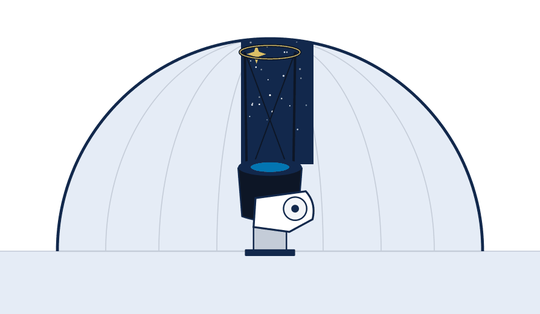
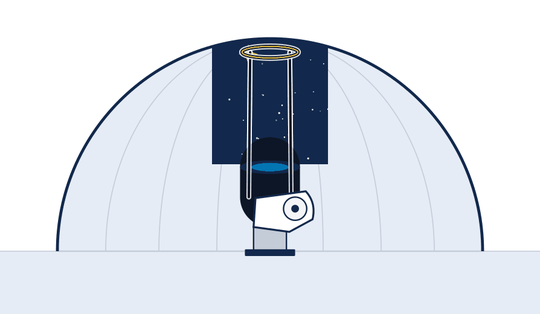
단계별 오지선다 개념 확인 퀴즈 20문제, 새 망원경 GIF

Changed region(s): [[0.3852, 0.1146, 0.6222, 0.7166]]

diff --git a/js/ui/concepts.js b/js/ui/concepts.js
@@ -1,0 +1,186 @@
+// 개념 확인 퀴즈: 단계마다 맨 아래에 오지선다 문제. 수업 자료(광도 곡선, 변광성의 종류, 주기-광도 관계, 거리지수)를 바탕으로 만들었다.
+// 고르는 순간 바로 채점하고 해설을 보여 준다. 첫 답은 S.quiz['단계-번호']에 남아 "내 기록"에 맞힌 개수로 정리된다.
+(function (g) {
+  const C = g.CEPH;
+  const h = C.h;
+  const NUM = ['①', '②', '③', '④', '⑤'];
+
+  // a: 정답 번호(0부터). 화면에서는 보기 순서를 섞어 보여 준다 (fixed: 숫자처럼 순서가 있는 보기는 그대로)
+  C.CONCEPTS = {
+    1: [
+      {
+        q: '변광성의 밝기가 변하는 원인 가운데 "외적 요인"에 해당하는 것은?',
+        o: ['별 내부가 팽창과 수축을 되풀이한다', '쌍성계의 두 별이 공전하며 서로를 가린다', '방출하는 에너지가 폭발적으로 늘어난다', '별의 표면 온도가 주기적으로 바뀐다', '별의 크기가 주기적으로 바뀐다'],
+        a: 1,
+        e: '외적 요인은 별의 광도는 그대로인데 식 현상 등으로 겉보기 밝기만 변하는 경우예요(예: 식 변광성). 나머지는 별 스스로 내는 에너지가 변하는 내적 요인이에요.'
+      },
+      {
+        q: '같은 은하 속의 세페이드 변광성들을 함께 비교하는 이유로 가장 알맞은 것은?',
+        o: ['모두 주기가 같기 때문에', '모두 질량이 같기 때문에', '지구로부터의 거리가 거의 같아서, 겉보기등급의 차이가 곧 절대등급의 차이가 되기 때문에', '같은 은하 안의 별은 성간소광을 받지 않기 때문에', '같은 은하 안의 별은 모두 밝기가 같기 때문에'],
+        a: 2,
+        e: '같은 은하의 세페이드는 우리에게서 거의 같은 거리에 있어요. 그래서 겉보기 밝기의 차이가 곧 진짜 밝기(절대등급)의 차이가 되고, 이 덕분에 리비트가 주기-광도 관계를 찾을 수 있었어요.'
+      },
+      {
+        q: '폭발 변광성(예: 초신성)의 광도 곡선에 대한 설명으로 옳은 것은?',
+        o: ['주기성이 있고, 좌우 대칭 모양이다', '주기성이 있고, 비대칭 톱니 모양이다', '주기성이 없고, 밝기가 급격히 증가한 뒤 서서히 감소한다', '한 주기에 두 번 어두워진다', '밝기가 거의 변하지 않는다'],
+        a: 2,
+        e: '초신성은 별의 마지막 단계에서 일어나는 폭발이라 되풀이되지 않아요. 급격히 최대 광도에 이른 뒤 수개월 동안 서서히 어두워져요.'
+      }
+    ],
+    2: [
+      {
+        q: '광도 곡선에 대한 설명으로 옳은 것은?',
+        o: ['별빛의 세기를 파장에 따라 나타낸 그래프', '천체의 등급 변화를 시간에 따라 나타낸 그래프', '별의 주기와 광도의 관계를 나타낸 그래프', '별의 질량과 광도의 관계를 나타낸 그래프', '별의 거리와 겉보기등급의 관계를 나타낸 그래프'],
+        a: 1,
+        e: '광도 곡선은 천체의 밝기(등급)가 시간에 따라 어떻게 변하는지 그린 그래프예요. 주기성이 있으면 가로축에 시간 대신 위상을 쓰기도 해요.'
+      },
+      {
+        q: '변광성의 광도 곡선만으로 직접 알아내기 어려운 것은?',
+        o: ['변광 주기', '광도 변화의 폭(진폭)', '가장 밝을 때의 밝기', '평균 밝기', '별의 질량'],
+        a: 4,
+        e: '광도 곡선에서는 주기, 진폭, 최대 밝기, 평균 밝기 같은 특성을 읽을 수 있어요. 질량은 쌍성의 공전 운동이나 질량-광도 관계 같은 다른 방법이 필요해요.'
+      },
+      {
+        q: '세페이드를 하룻밤이 아니라 약 석 달 동안 여러 번 찍는 가장 큰 이유는?',
+        o: ['하룻밤 사이에 한 주기가 끝나기 때문에', '주기가 며칠~수십 일이라 밝기가 여러 번 오르내리는 모습을 담아야 하기 때문에', '별이 멀어서 빛이 도착하는 데 석 달이 걸리기 때문에', '망원경을 식히는 데 시간이 걸리기 때문에', '계절마다 다른 별을 찍어야 하기 때문에'],
+        a: 1,
+        e: '세페이드의 주기는 며칠에서 수십 일이에요. 주기를 정확히 재려면 밝기가 여러 번 오르내리는 동안 꾸준히 찍어야 해요.'
+      }
+    ],
+    3: [
+      {
+        q: '차등측광에서 목표 별과 같은 사진 속의 비교성을 쓰는 까닭은?',
+        o: ['비교성이 목표 별보다 항상 가깝기 때문에', '같은 사진 속 별들은 구름·대기의 영향을 똑같이 받아서, 둘의 차이를 보면 날씨 영향이 사라지기 때문에', '비교성은 성간소광을 받지 않기 때문에', '비교성의 주기를 알기 위해', '사진의 크기를 줄이기 위해'],
+        a: 1,
+        e: '엷은 구름이 끼면 사진 속 모든 별이 같은 비율로 어두워져요. 목표 별과 비교성의 밝기 차이를 쓰면 이 날씨 영향이 지워져요.'
+      },
+      {
+        q: '다음 중 비교성으로 가장 알맞은 별은?',
+        o: ['너무 밝아 화소가 가득 찬(포화된) 별', '사진 가장자리에 걸친 별', '이웃 별과 겹쳐 보이는 별', '밝기가 변하지 않고, 적당히 밝고, 다른 별과 떨어져 있는 별', '스스로 밝기가 변하는 별'],
+        a: 3,
+        e: '비교성은 밝기가 변하지 않아야 하고, 포화·가장자리·이웃 별 섞임 없이 깨끗하게 잴 수 있어야 해요.'
+      },
+      {
+        q: '구경측광에서 별 바깥의 "배경 고리"를 쓰는 이유는?',
+        o: ['별의 색을 재기 위해', '별 주변 하늘(배경빛)의 밝기를 재서, 별빛에서 빼 주기 위해', '별의 주기를 재기 위해', '별을 더 크게 보이게 하기 위해', '이웃 별을 지우기 위해'],
+        a: 1,
+        e: '원 안의 빛에는 별빛과 배경빛이 섞여 있어요. 배경 고리로 한 화소당 배경빛을 재서, 그만큼을 빼야 별빛만 남아요.'
+      }
+    ],
+    4: [
+      {
+        q: '세페이드 변광성(맥동 변광성)의 광도 곡선 모양으로 옳은 것은?',
+        o: ['밝기가 천천히 증가하고 급하게 감소하는 모양', '밝기가 급하게 증가하고 천천히 감소하는 비대칭 톱니 모양', '좌우가 대칭이고 한 주기에 두 번 어두워지는 모양', '한 번 급증한 뒤 다시 밝아지지 않는 모양', '밝기가 변하지 않는 평평한 모양'],
+        a: 1,
+        e: '맥동 변광성은 밝기가 급하게 올라갔다가 천천히 내려오는 비대칭 톱니 모양이에요. 4단계에서 세페이드와 식쌍성을 가르는 단서가 바로 이 모양이에요.'
+      },
+      {
+        q: '식 변광성의 광도 곡선에서 가장 깊게 어두워지는 때(주극소)는 언제일까?',
+        o: ['두 별이 가장 멀리 떨어져 있을 때', '표면 온도가 높은 별이 가려질 때', '표면 온도가 낮은 별이 가려질 때', '두 별이 모두 팽창할 때', '두 별이 나란히 보일 때'],
+        a: 1,
+        e: '식 변광성은 한 주기에 두 번 어두워져요. 표면 온도가 높은(단위 면적당 더 밝은) 별이 가려질 때 크게 어두워지고(주극소), 온도가 낮은 별이 가려질 때 조금 어두워져요(부극소).'
+      },
+      {
+        q: '맥동 변광성이 가장 밝을 때와 크기가 가장 클 때가 일치하지 않는 이유는?',
+        o: ['별이 커질수록 거리가 멀어지기 때문에', '커져도 표면 온도가 크게 낮아지면 광도가 줄기 때문에', '별이 커지면 성간소광이 커지기 때문에', '별이 커지면 질량이 줄기 때문에', '관측 시각이 정확하지 않기 때문에'],
+        a: 1,
+        e: '광도는 크기와 표면 온도에 함께 달려 있어요. 별이 커지는 동안 표면 온도가 크게 낮아지면, 크기가 최대여도 광도는 오히려 줄어들 수 있어요.'
+      },
+      {
+        q: '주기 P = 10일인 별을 t = 25일에 찍었어요. 이 사진의 위상은? (위상 = t ÷ P의 소수 부분)',
+        o: ['0.25', '0.4', '0.5', '2.5', '2.0'], fixed: true,
+        a: 2,
+        e: '25 ÷ 10 = 2.5 이고, 정수 부분 2를 빼면 위상은 0.5예요. 위상 중첩은 모든 사진을 이렇게 한 주기 안의 위치로 옮겨 겹쳐 놓은 거예요.'
+      }
+    ],
+    5: [
+      {
+        q: '세페이드의 주기-광도 관계를 처음 발견한 사람과, 그때 조사한 대상은?',
+        o: ['허블 – 안드로메다 은하', '리비트 – 소마젤란 은하', '섀플리 – 구상 성단', '케플러 – 태양계 행성', '갈릴레이 – 목성의 위성'],
+        a: 1,
+        e: '1912년 헨리에타 리비트가 소마젤란 은하의 세페이드를 조사해 "변광 주기가 길수록 광도가 크다"는 관계를 발견했어요.'
+      },
+      {
+        q: '같은 은하에 있는 세페이드 A(주기 5일)와 B(주기 30일)에 대한 설명으로 옳은 것은?',
+        o: ['A가 B보다 광도가 크다', 'B가 A보다 광도가 크다', '두 별의 광도는 같다', '주기로는 광도를 알 수 없다', 'B가 더 가까이 있다'],
+        a: 1,
+        e: '주기가 길수록 광도가 커요. 같은 은하라 거리는 거의 같으니, B가 하늘에서도 더 밝게 보여요.'
+      },
+      {
+        q: '주기-광도 관계 M = −2.43 × (log P − 1) − 4.05 에서, 주기가 10일인 세페이드의 절대등급 M은?',
+        o: ['−6.48', '−4.05', '−1.62', '0', '+4.05'], fixed: true,
+        a: 1,
+        e: 'log 10 = 1 이라 괄호 안이 0이 돼요. 그래서 M = −4.05 예요.'
+      }
+    ],
+    6: [
+      {
+        q: '세페이드 변광성으로 외부 은하까지의 거리를 구하는 순서로 옳은 것은?',
+        o: ['광도 곡선 → 변광 주기 → 주기-광도 관계 → 절대등급 → 거리지수 → 거리', '절대등급 → 광도 곡선 → 변광 주기 → 거리지수 → 주기-광도 관계 → 거리', '거리지수 → 절대등급 → 광도 곡선 → 변광 주기 → 거리', '변광 주기 → 거리지수 → 광도 곡선 → 절대등급 → 거리', '광도 곡선 → 거리지수 → 변광 주기 → 절대등급 → 거리'],
+        a: 0,
+        e: '광도 곡선에서 주기를 읽고, 주기-광도 관계로 절대등급을 구한 뒤, 겉보기등급과의 차(거리지수)로 거리를 계산해요. 이 사이트의 1~6단계 순서와 같아요.'
+      },
+      {
+        q: '성간소광을 보정하지 않고 거리를 구하면 어떻게 될까?',
+        o: ['실제보다 가깝게 계산된다', '실제보다 멀게 계산된다', '실제 거리와 같다', '거리를 구할 수 없다', '주기가 바뀐다'],
+        a: 1,
+        e: '성간 티끌이 별빛을 흡수·산란해 별이 실제보다 어둡게(m이 크게) 보여요. 그대로 계산하면 m − M이 커져서 거리가 멀게 나와요.'
+      },
+      {
+        q: '어떤 세페이드의 거리지수 m − M 이 10 이에요. 이 별까지의 거리는? (m − M = 5 log d − 5, d는 pc)',
+        o: ['10 pc', '100 pc', '1,000 pc', '10,000 pc', '100,000 pc'], fixed: true,
+        a: 2,
+        e: '10 = 5 log d − 5 → 5 log d = 15 → log d = 3 → d = 10³ = 1,000 pc 예요.'
+      },
+      {
+        q: '두 세페이드의 절대등급이 같은데, 겉보기등급이 5등급 차이 나요. 어두운 별은 밝은 별보다 몇 배 멀리 있을까?',
+        o: ['2배', '5배', '10배', '25배', '100배'], fixed: true,
+        a: 2,
+        e: '거리지수가 5 커질 때마다 log d가 1 커져요. 즉 거리가 10배 멀어요. (밝기로는 100배 어둡게 보여요)'
+      }
+    ]
+  };
+
+  C.conceptQuiz = function (step) {
+    const list = C.CONCEPTS[step];
+    if (!list) return null;
+    const S = C.S;
+    const ans = () => (S.quiz = S.quiz || {});
+    const box = h('section', { class: 'concept-quiz' });
+    function draw() {
+      box.innerHTML = '';
+      const A = ans();
+      const done = list.filter((_, i) => A[step + '-' + i] !== undefined);
+      const right = done.filter((q) => A[step + '-' + list.indexOf(q)] === q.a).length;
+      box.append(h('div', { class: 'cq-head' },
+        h('h3', null, '개념 확인 퀴즈'),
+        h('span', { class: 'tag' + (done.length === list.length ? ' ok' : '') }, done.length === list.length ? right + ' / ' + list.length + ' 맞힘' : done.length + ' / ' + list.length + ' 풀었어요')));
+      list.forEach((item, i) => {
+        const key = step + '-' + i, pick = A[key];
+        const answered = pick !== undefined;
+        const ord = item.fixed ? [0, 1, 2, 3, 4] : C.rng(C.hashStr('cq#' + key)).shuffle([0, 1, 2, 3, 4]);
+        box.append(h('div', { class: 'cq-item' },
+          h('p', { class: 'cq-q' }, h('b', null, (i + 1) + '. '), item.q),
+          h('div', { class: 'cq-opts' }, ord.map((k, pos) => h('button', {
+            class: 'cq-opt' + (answered ? (k === item.a ? ' right' : k === pick ? ' wrong' : ' dim') : ''),
+            disabled: answered,
+            onclick: () => { A[key] = k; C.save(); draw(); }
+          }, h('span', { class: 'n' }, NUM[pos]), h('span', null, item.o[k])))),
+          answered ? h('div', { class: 'callout ' + (pick === item.a ? 'good' : 'warn') },
+            h('b', null, pick === item.a ? '맞아요! ' : '아쉬워요. 정답은 ' + NUM[ord.indexOf(item.a)] + '. '), item.e) : null));
+      });
+      if (done.length) box.append(h('div', { class: 'row', style: { justifyContent: 'flex-end' } },
+        h('button', { class: 'sm', onclick: () => { list.forEach((_, i) => delete A[step + '-' + i]); C.save(); draw(); } }, '다시 풀어 보기')));
+    }
+    draw();
+    return box;
+  };
+
+  // 내 기록용: 모든 단계 퀴즈의 맞힌 수
+  C.conceptScore = function () {
+    const A = C.S.quiz || {};
+    let n = 0, right = 0, done = 0;
+    Object.keys(C.CONCEPTS).forEach((s) => C.CONCEPTS[s].forEach((q, i) => { n++; const p = A[s + '-' + i]; if (p !== undefined) { done++; if (p === q.a) right++; } }));
+    return { n, right, done };
+  };
+})(typeof window !== 'undefined' ? window : globalThis);

diff --git a/js/ui/step6.js b/js/ui/step6.js
@@ -188,7 +188,7 @@
           h('p', { class: 'muted' }, gal.fact),
           h('div', { class: 'row' },
             h('button', { onclick: () => window.print() }, '결과 인쇄 / PDF 저장'),
-            h('button', { class: 'primary', onclick: () => C.ask('새로운 은하를 뽑아 처음부터 다시 도전할까요?', () => { C.S.galaxyId = null; C.S.picked = []; C.S.observed = false; C.S.comps = {}; C.S.batchDone = false; C.S.an = {}; C.S.incl = {}; C.S.calib = false; C.S.plFit = false; C.S.ext = false; C.S.revealed = false; C.S.pred = {}; C.S.log = {}; C.S.result = null; C.S.time = null; C.save(); C.go(1); }, '도전') }, '다른 은하에 도전'))));
+            h('button', { class: 'primary', onclick: () => C.ask('새로운 은하를 뽑아 처음부터 다시 도전할까요?', () => { C.S.galaxyId = null; C.S.picked = []; C.S.observed = false; C.S.comps = {}; C.S.batchDone = false; C.S.an = {}; C.S.incl = {}; C.S.calib = false; C.S.plFit = false; C.S.ext = false; C.S.revealed = false; C.S.pred = {}; C.S.log = {}; C.S.result = null; C.S.time = null; C.S.quiz = {}; C.save(); C.go(1); }, '도전') }, '다른 은하에 도전'))));
       }
 
       // 내 기록: 처음 예상과 결과, 직접 한 것 / 컴퓨터에게 맡긴 것
@@ -209,7 +209,8 @@
           ['직접 한 것', first + ' 비교성 고르기 · 주기 ' + cnt('howP', '직접') + '개 · 분류 ' + cnt('howType', '직접') + '개'],
           ['컴퓨터에게 맡긴 것', '나머지 비교성 일괄 처리 · 주기 ' + cnt('howP', '자동') + '개 · 분류 ' + cnt('howType', '자동') + '개'],
           ['거리지수 식 계산', (function () { const v = Object.values(pog()); const c = (k) => v.filter((x) => x === k).length; return '직접 ' + c('직접') + '개 · 풀이 ' + c('풀이') + '개 · 자동 ' + c('자동') + '개'; })()],
-          ['힌트 사용', (S.log.hints || 0) + '번']
+          ['힌트 사용', (S.log.hints || 0) + '번'],
+          ['개념 확인 퀴즈', (function () { const q = C.conceptScore(); return q.done ? q.right + ' / ' + q.done + '문제 맞힘' + (q.done < q.n ? ' (전체 ' + q.n + '문제 중 ' + q.done + '문제 풂)' : '') : '아직 풀지 않았어요'; })()]
         ];
         return h('div', { class: 'record' },
           h('h3', null, '내 기록'),

diff --git a/css/style.css b/css/style.css
@@ -299,3 +299,21 @@ dialog#gloss { overflow: visible; padding: 0; }
 .code-row span { font-weight: 700; color: var(--navy); }
 .code-row code { font-size: 1.05rem; background: var(--yellow-soft); border: 1px solid var(--yellow); padding: 4px 10px; border-radius: var(--radius); letter-spacing: .5px; }
 .grade-card td:last-child { text-align: left; color: var(--muted); }
+
+/* 개념 확인 퀴즈 */
+.concept-quiz { position: relative; margin: 28px 0 8px; border: 2px solid var(--cyan); border-radius: var(--radius); background: #fff; padding: 34px 18px 14px; }
+.concept-quiz::before { content: '개념 확인'; position: absolute; top: 0; left: 0; padding: 3px 12px; background: var(--cyan); color: #fff; font-size: .76rem; font-weight: 800; }
+.cq-head { display: flex; align-items: center; gap: 10px; justify-content: space-between; flex-wrap: wrap; }
+.cq-head h3 { margin: 0; }
+.cq-item { padding: 14px 0; border-bottom: 1px solid var(--line); }
+.cq-item:last-of-type { border-bottom: 0; }
+.cq-q { margin: 0 0 8px; font-weight: 600; }
+.cq-opts { display: grid; gap: 6px; }
+button.cq-opt { display: flex; gap: 8px; align-items: flex-start; text-align: left; white-space: normal; width: 100%; background: #fff; border: 1px solid var(--line2); color: var(--text); padding: 8px 12px; font-weight: 500; }
+button.cq-opt:hover:not(:disabled) { border-color: var(--cyan); background: var(--cyan-soft); }
+button.cq-opt .n { font-weight: 800; color: var(--navy); }
+button.cq-opt:disabled { cursor: default; opacity: 1; }
+button.cq-opt.right { border: 2px solid var(--green); background: #eaf6ef; }
+button.cq-opt.wrong { border: 2px solid var(--red); background: #fbecea; }
+button.cq-opt.dim { opacity: .55; }
+.cq-item .callout { margin-top: 8px; }

diff --git a/js/app.js b/js/app.js
@@ -8,7 +8,7 @@
   C.steps = C.steps || {};
 
   function fresh() {
-    return { galaxyId: null, seed: 0, step: 1, picked: [], observed: false, comps: {}, batchDone: false, an: {}, incl: {}, calib: false, plFit: false, ext: false, revealed: false, pred: {}, log: {}, time: null, result: null, attempt: 0 };
+    return { galaxyId: null, seed: 0, step: 1, picked: [], observed: false, comps: {}, batchDone: false, an: {}, incl: {}, calib: false, plFit: false, ext: false, revealed: false, pred: {}, log: {}, time: null, result: null, attempt: 0, quiz: {} };
   }
   function load() {
     try { const s = JSON.parse(localStorage.getItem(KEY)); if (s && s.galaxyId !== undefined && (s.galaxyId === null || C.galaxyById(s.galaxyId))) return Object.assign(fresh(), s); } catch (e) { /* 무시 */ }
@@ -110,6 +110,8 @@
     const title = stage.querySelector('h2');
     const m = title && /^(\d)단계 · (.+)$/.exec(title.textContent);
     if (m) { title.textContent = m[2]; stage.insertBefore(h('div', { class: 'eyebrow' }, '제' + m[1] + '단계'), title); }
+    // 단계마다 맨 아래에 개념 확인 퀴즈 (1단계는 은하를 뽑은 뒤부터)
+    if (C.S.galaxyId && C.conceptQuiz) { const q = C.conceptQuiz(n); if (q) stage.appendChild(q); }
     C.figurize(stage);
     C.refreshNav();
     window.scrollTo(0, 0);

diff --git a/js/ui/step1.js b/js/ui/step1.js
@@ -316,7 +316,7 @@
     const S = C.S;
     S.picked = []; S.observed = false; S.comps = {}; S.batchDone = false; S.an = {}; S.incl = {};
     S.calib = false; S.plFit = false; S.ext = false; S.revealed = false;
-    S.pred = {}; S.log = {}; S.result = null; S.time = null;
+    S.pred = {}; S.log = {}; S.result = null; S.time = null; S.quiz = {};
   }
 
   C.steps[1] = {

diff --git a/index.html b/index.html
@@ -45,6 +45,7 @@
 <script src="js/ui/charts.js"></script>
 <script src="js/ui/challenges.js"></script>
 <script src="js/ui/grade.js"></script>
+<script src="js/ui/concepts.js"></script>
 <script src="js/ui/step1.js"></script>
 <script src="js/ui/step2.js"></script>
 <script src="js/ui/step3.js"></script>

diff --git a/README.md b/README.md
@@ -50,6 +50,23 @@
   - 직접 한 것과 컴퓨터에게 맡긴 것
   - 힌트를 쓴 횟수
 
+## 개념 확인 퀴즈
+
+단계마다 맨 아래에 오지선다(5지선다) 문제가 3~4개씩, 모두 20문제 있어요. 수업 자료(광도 곡선, 변광성의 종류, 주기-광도 관계, 거리지수, 성간소광)를 바탕으로 만들었어요.
+
+| 단계 | 다루는 내용 |
+|---|---|
+| 1 | 밝기 변화의 외적·내적 요인, 같은 은하의 세페이드를 쓰는 이유, 폭발 변광성의 광도 곡선 |
+| 2 | 광도 곡선의 뜻과 알 수 있는 것, 석 달 동안 찍는 이유 |
+| 3 | 차등측광과 비교성, 좋은 비교성의 조건, 배경 고리의 역할 |
+| 4 | 맥동 변광성의 톱니 모양 곡선, 식 변광성의 주극소, 밝기와 크기가 어긋나는 이유, 위상 계산 |
+| 5 | 리비트와 소마젤란 은하, 주기와 광도, 주기-광도 식 계산 |
+| 6 | 거리를 구하는 순서, 성간소광을 보정하지 않으면, 거리지수 계산, 5등급 차와 거리 10배 |
+
+- 보기를 고르면 바로 채점하고 해설을 보여 줘요. 보기 순서는 문제마다 섞여 있어요. 숫자 보기는 크기 순서 그대로예요.
+- 맞힌 개수는 "내 기록"에 정리돼요. 별점에는 들어가지 않아요.
+- "다시 풀어 보기"로 그 단계 문제를 처음부터 다시 풀 수 있어요.
+
 ## 결과 등급
 
 정답을 **처음 확인하는 순간**의 결과로 등급을 매기고 고정합니다. 정답을 본 뒤에 먼지 보정을 바꾸거나 별을 빼도 등급은 그대로입니다.
@@ -119,6 +136,7 @@ js/ui/              화면
   charts.js         그래프
   challenges.js     자기 채점 문제와 심화 탐구
   grade.js          활동 시간, 결과 등급(별점·보조 관측원), 결과 코드
+  concepts.js       단계별 개념 확인 퀴즈 (오지선다 20문제)
   step1.js ~ step6.js  단계별 화면
 js/app.js           상태 저장, 단계 이동, 용어집
 tests/test_core.js  계산 코어 테스트
